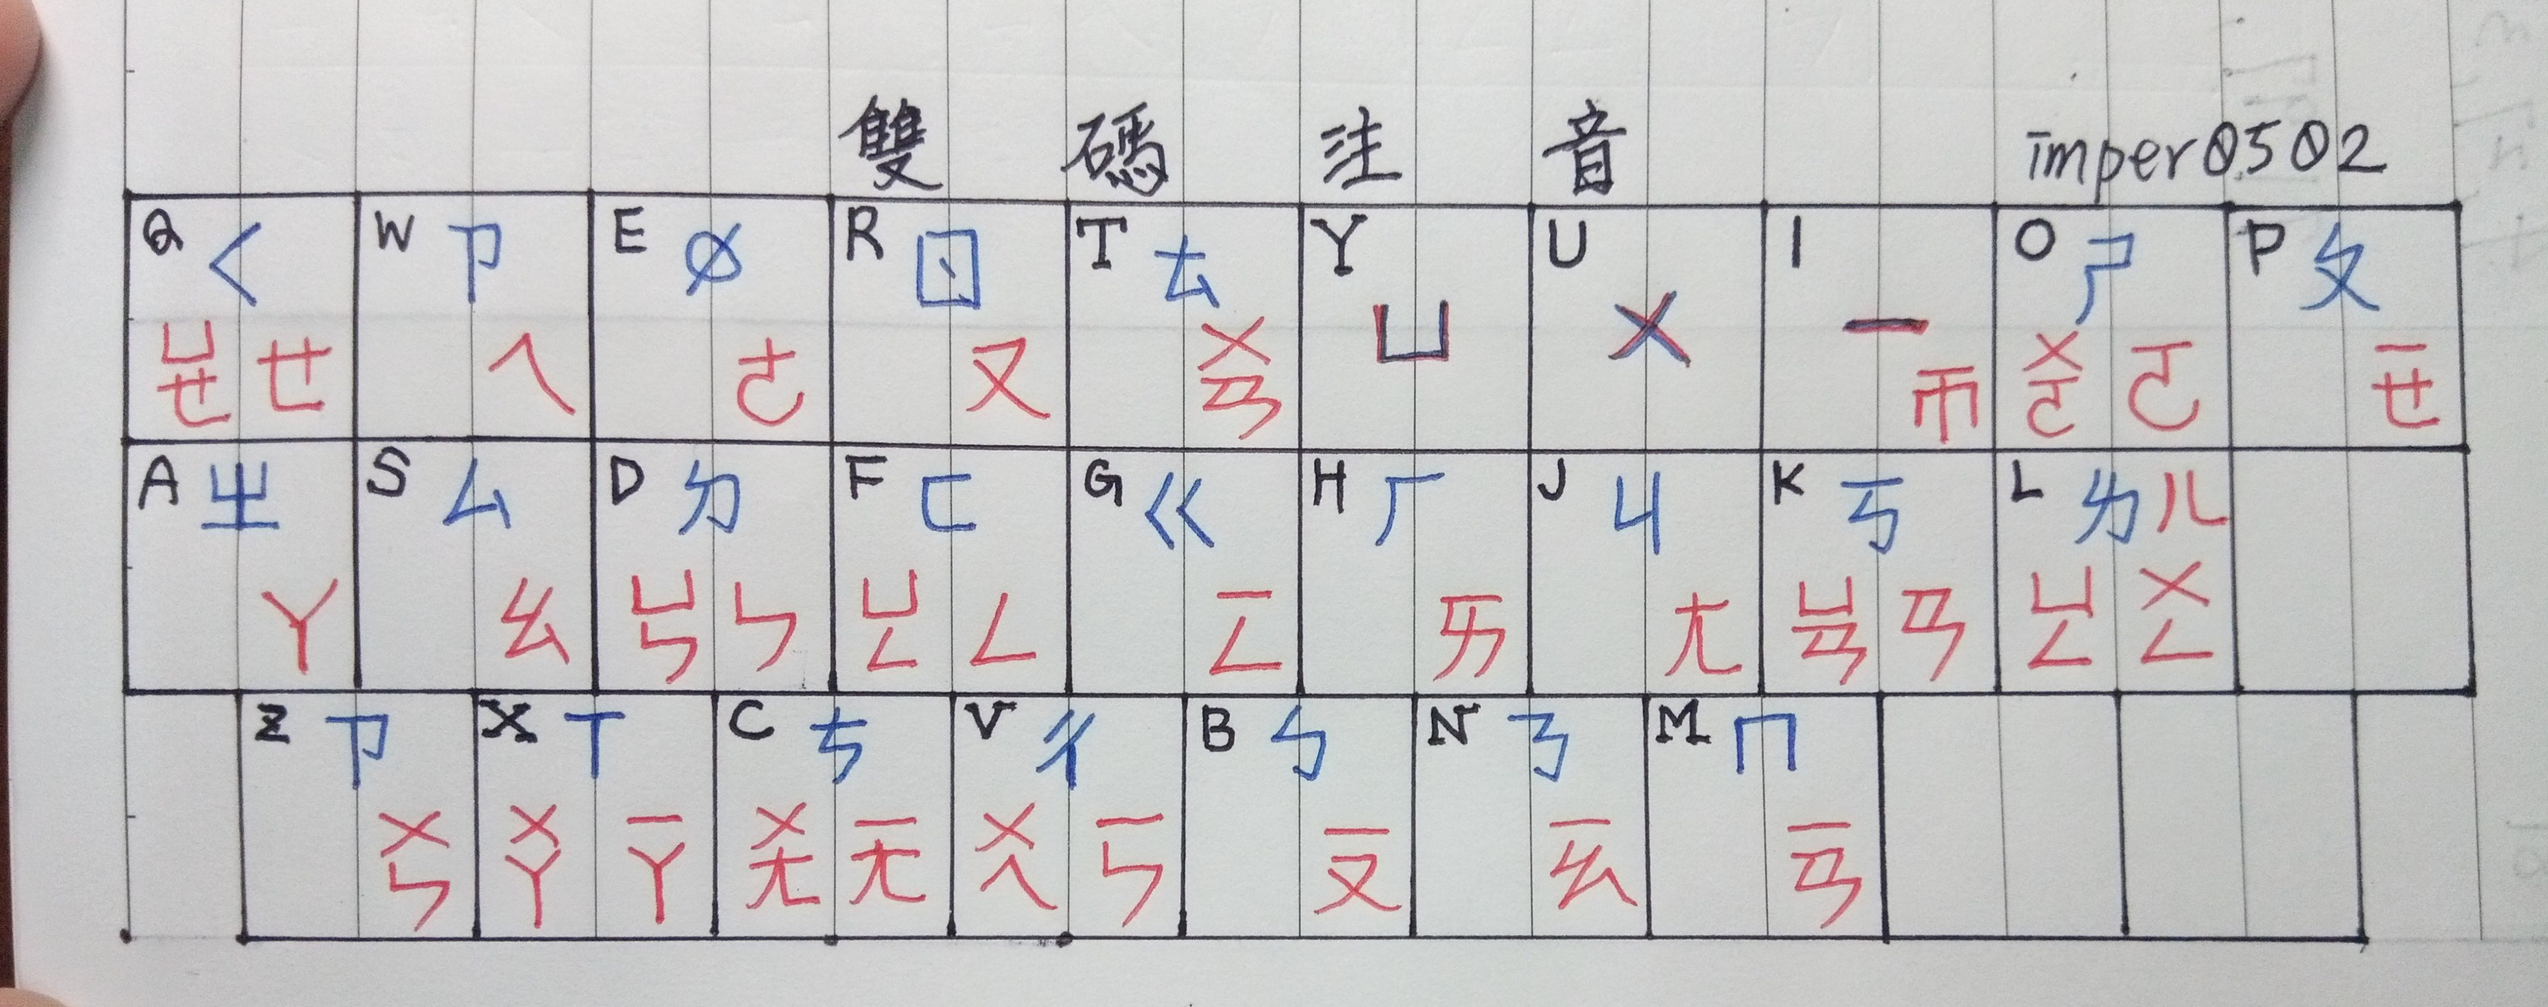
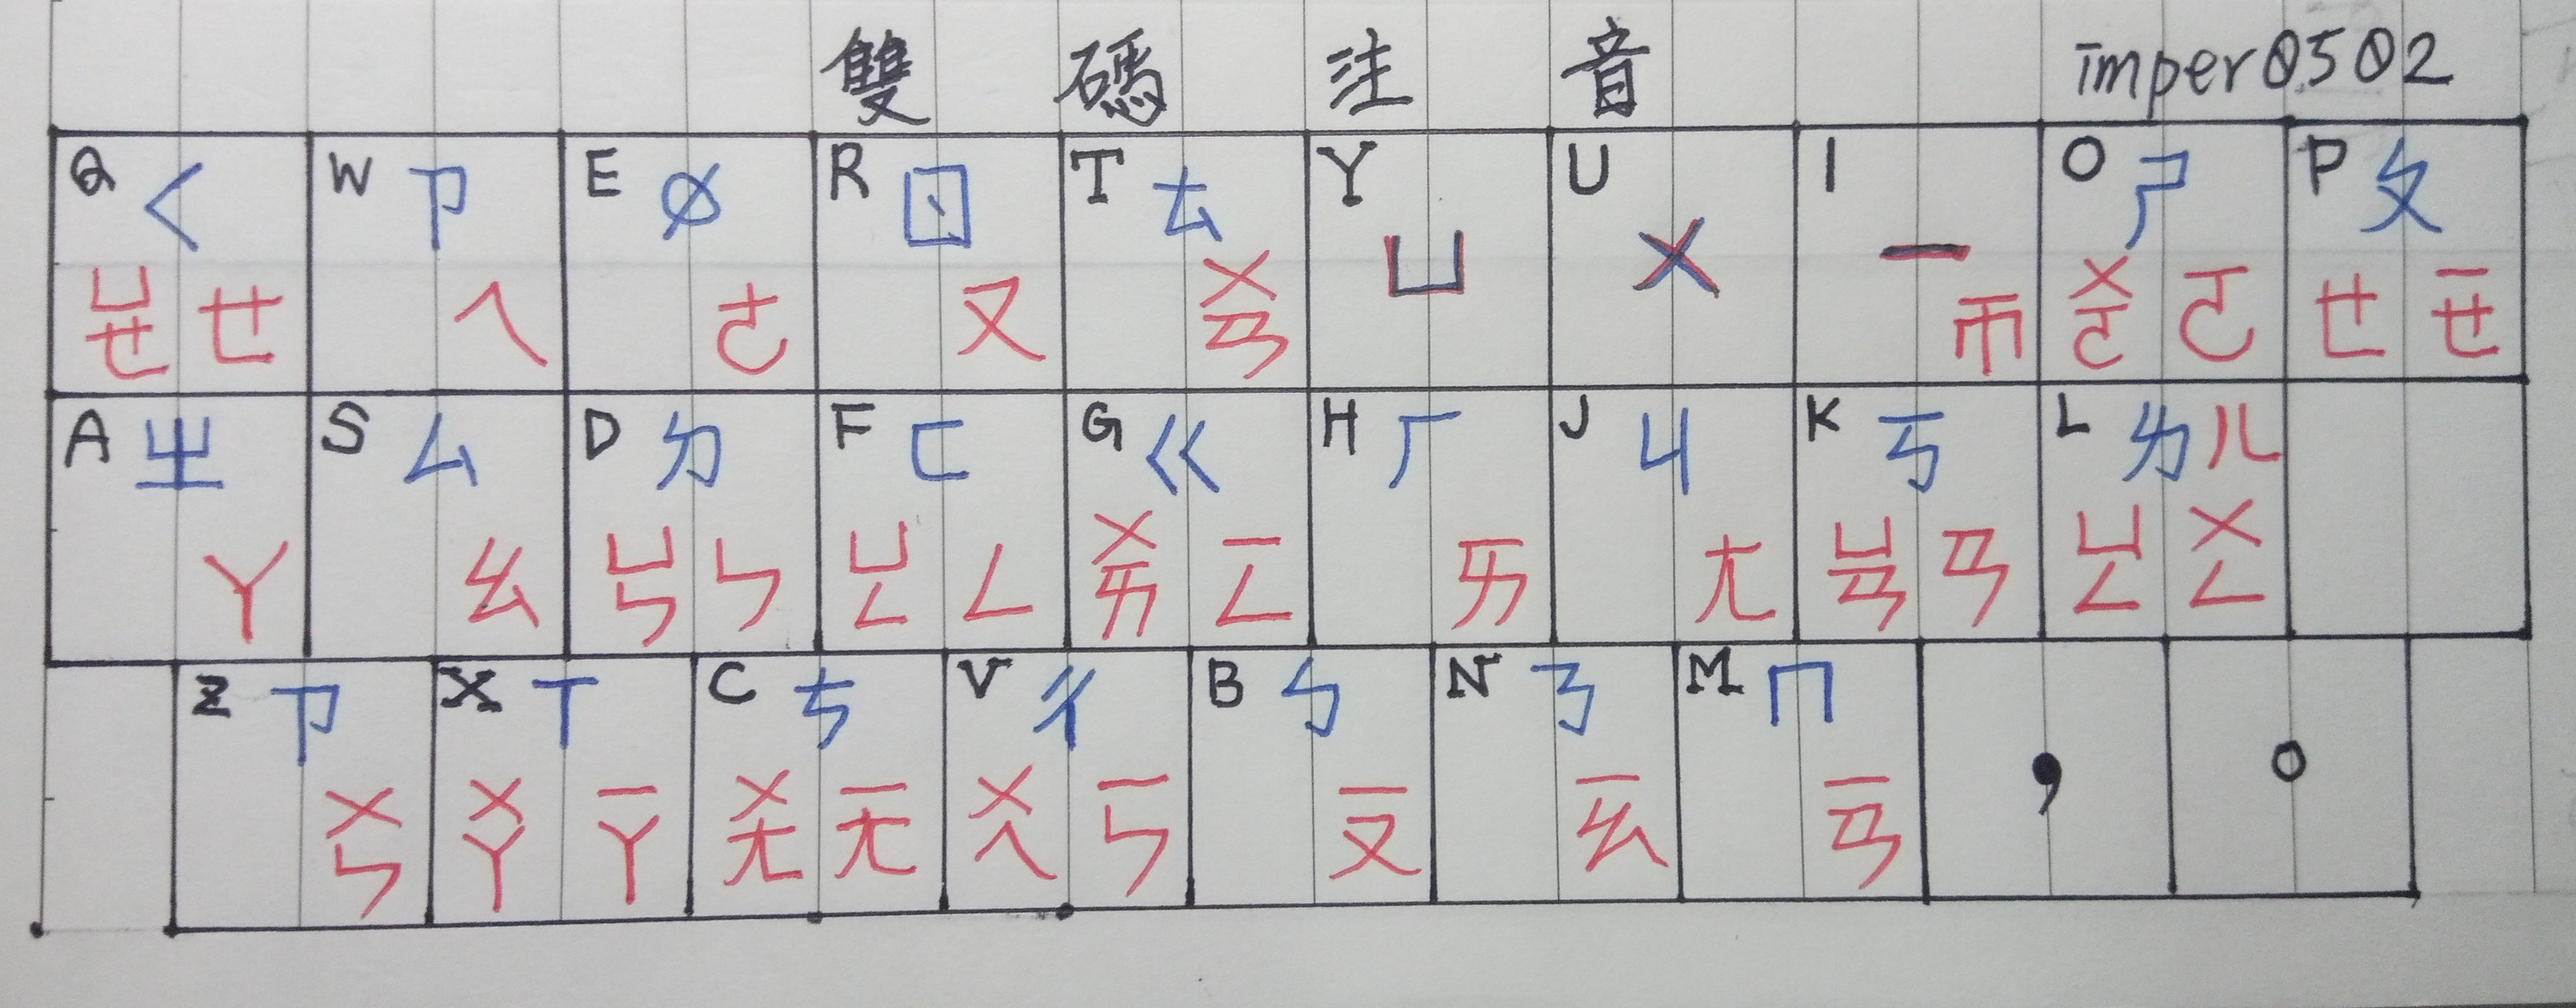
增加分詞鍵簡拼功能；優化拼音規則、提示格式；更正鍵位圖；更新說明檔。

Changed region(s): [[0.0, 0.0, 1.0, 1.0]]

diff --git a/README.md b/README.md
@@ -23,3 +23,7 @@
  
  如此，所有的注音符號音節（但不包括尖團音），全部編碼成兩碼了。
  另外，目前是12345輸入聲調，但聲調不是必要的；67890選字。此外，ㄗ放 W的設計，參考了法語鍵盤。
+ 
+### 簡拼規則
+ 1. 聲母（ㄅㄆㄇ…）+ 聲調（數字１～５）；所以改用６～０選字（預設一頁五字）
+ 2. 聲母（ㄅㄆㄇ…）+ 分詞鍵【'】（分號鍵的右邊）；若【'】有設定額外功能，則會衝突不可使用。
